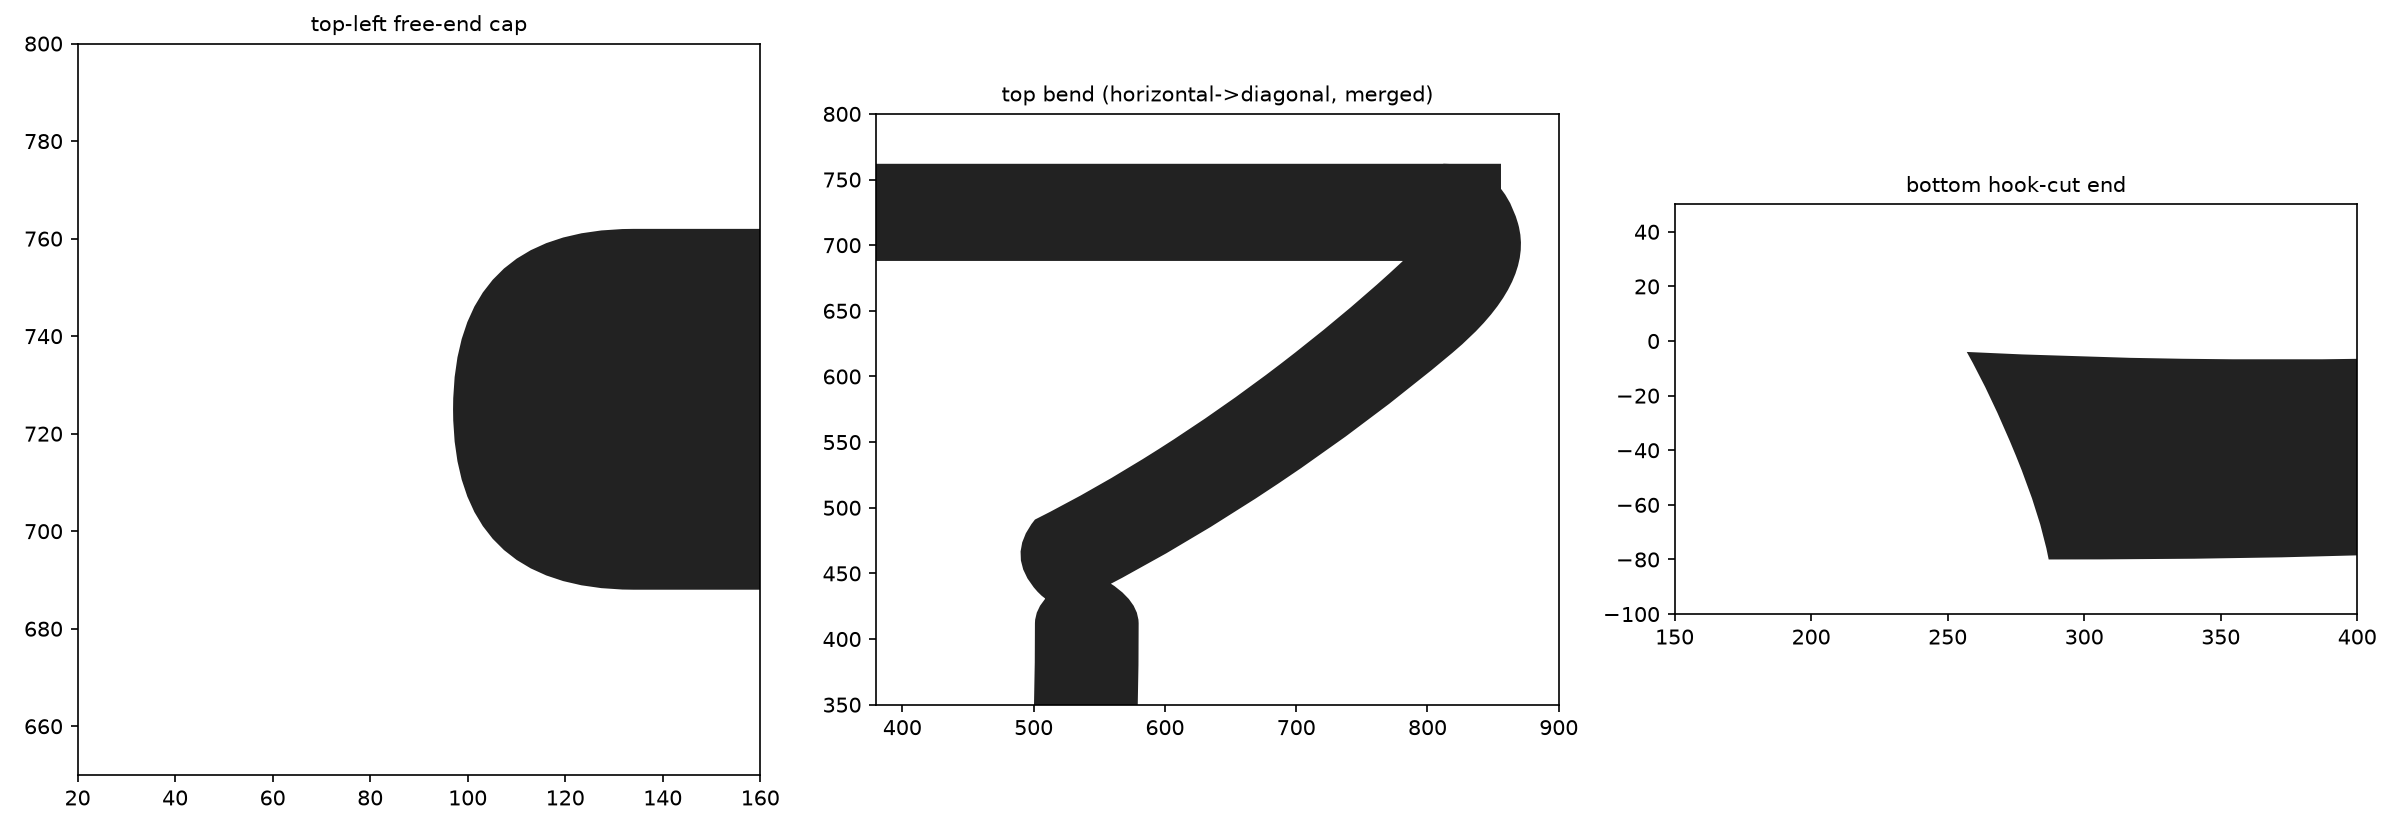
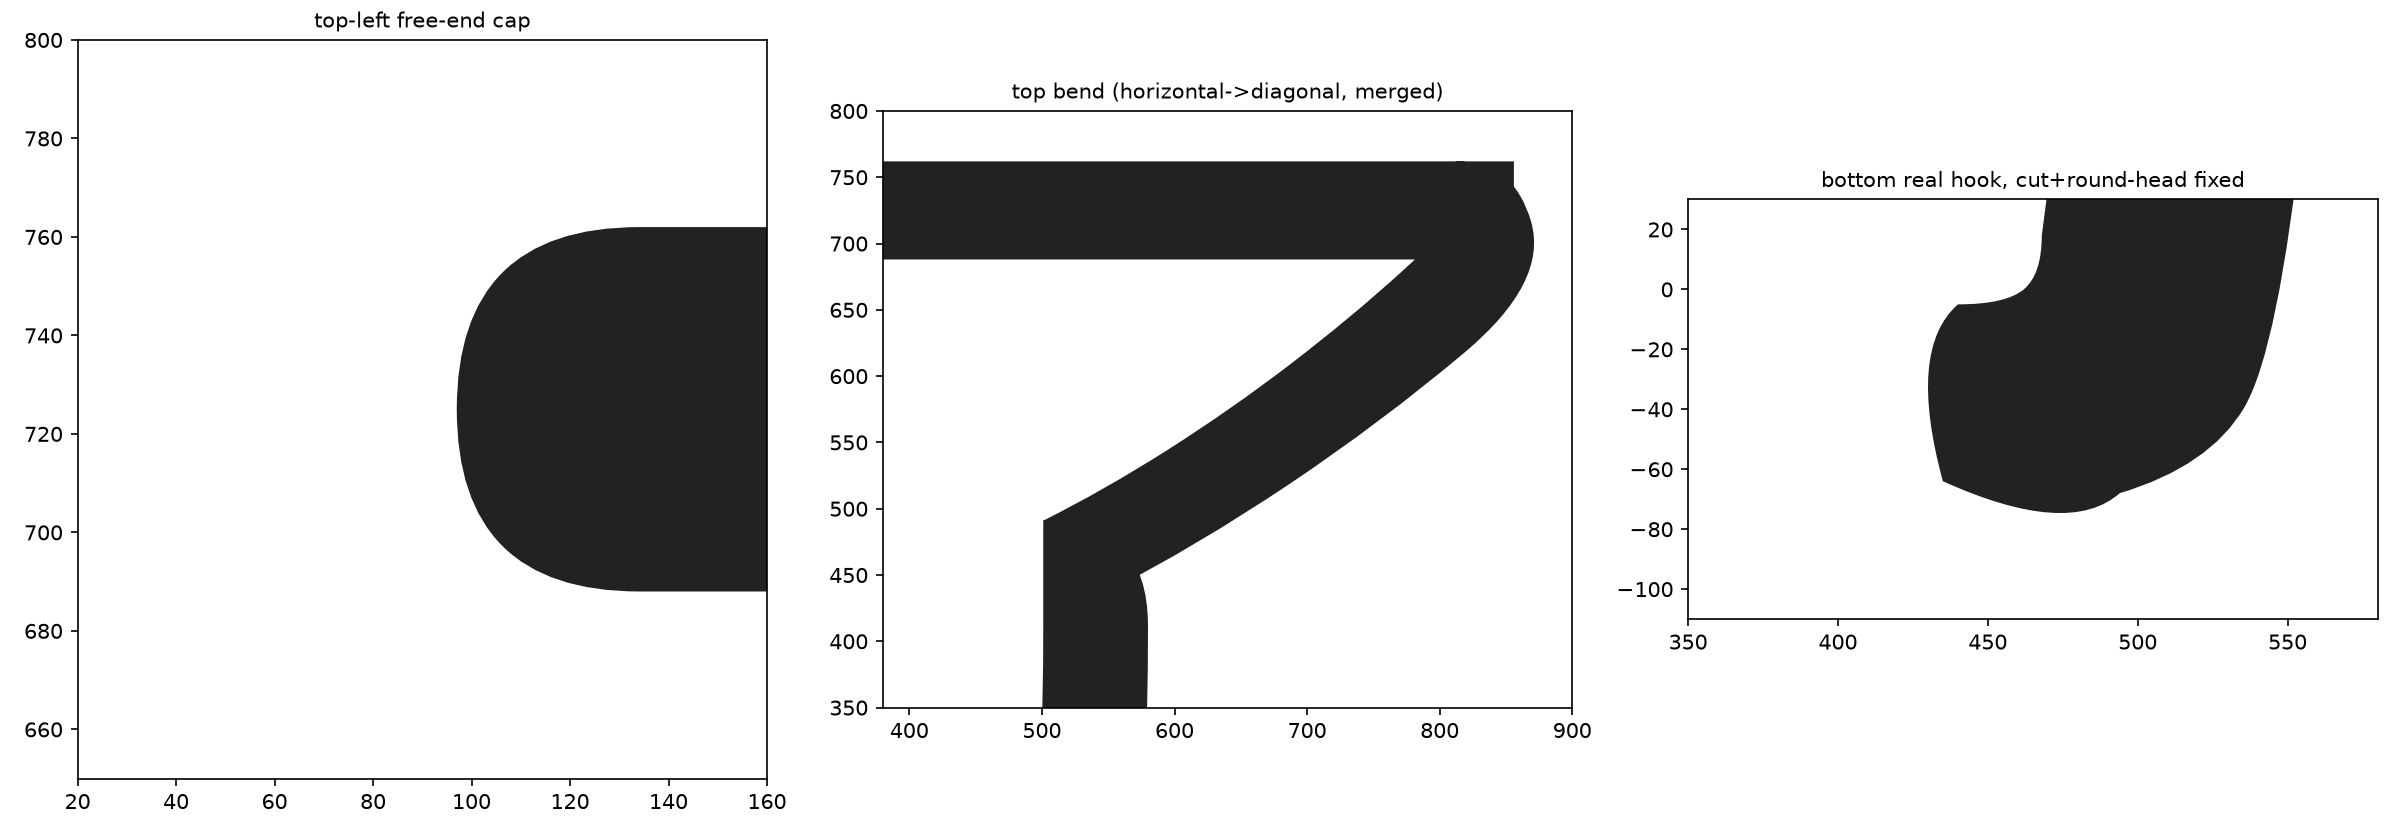
修复 hook_cut.py：了字真钩被假阳性鼓包顶掉的检测 bug
find_hooks() 之前按 perp_score 最小选候选，了字 contour0 里一个普通端头
鼓包（探出比例恰好 1.00）的 perp_score 恰好比真钩（探出比例 1.99）还低
一丝丝，被误判成钩去切，真正的钩尾从未被处理过——之前看到的扁平收尾其实
是 le_slant.py 的原始曲线，不是裁切本身的问题。

新增 min_excursion_ratio=1.15 门槛，在比较 perp_score 前先按探出比例
筛掉假阳性。真钩实测比例 1.31~2.32，假阳性是 1.00，门槛干净分开两类，
不影响既有 8 个带钩字形的选择结果（逐一核对闸门对不变）。

重跑完整流水线验证：了字检测从 (0,23,2) 变为 (0,7,17)，其余字形不变；
13 字 x 3 档字重自相交检查 39 项全部通过。

diff --git a/tools/hook_cut.py b/tools/hook_cut.py
@@ -93,7 +93,8 @@ def _approach_direction(contour, i, n, lookback_min_len=40):
     return (dx / length, dy / length)
 
 
-def find_hooks(contours, gate_max=90, max_path=700, min_path=150, min_excursion_abs=50):
+def find_hooks(contours, gate_max=90, max_path=700, min_path=150, min_excursion_abs=50,
+                min_excursion_ratio=1.15):
     """返回 [(contour_idx, gate_i, gate_j)]：gate_i/gate_j 是"闸门"锚点序号(on-curve)，
     之间的所有点都要被替换成圆头收尾。
 
@@ -103,6 +104,20 @@ def find_hooks(contours, gate_max=90, max_path=700, min_path=150, min_excursion_
     且探出闸门连线的距离相对闸门间距明显偏大。这里加一个路径长度上限，并且在多个
     候选之间按"探出比例最大"取最像钩的那个，而不是"路径最长"的那个（之前那版正好
     选反了，挑到绕一整圈笔画另一侧的假阳性）。
+
+    2026-10-19（"了"字真钩被假阳性顶掉，补一道 excursion/gate_dist 比例门槛）：
+    `le_slant.py` 续十一给"了"顶部横转竖做的单样条连续曲线，在 contour0 收尾处留下
+    一个衔接鼓包（闸门 i=23/j=2，gate_dist=79、excursion=79，探出比例恰好 1.00——
+    本质上就是个普通的端头鼓包，不是钩），这个鼓包的 `perp_score` 恰好算出 0.000（闸门
+    连线跟笔画走向严格垂直），比真正钩尾候选（i=7/j=17，探出比例 1.99，`perp_score`
+    0.027）还要小一点点，在"同一轮廓只留 perp_score 最小的那个"这条选择规则下以微弱
+    优势胜出，把假的当成了真钩去处理——"了"字真正的钩尾因此从未被这个工具碰过，之前
+    看到的"扁平"收尾其实是 `le_slant.py` 产出的原始曲线，没有走过这里的裁切流程，不是
+    裁切本身把它切扁的。真钩必然是"探出去一截、明显超过闸门本身的宽度"，普通鼓包的探出
+    距离只跟闸门宽度同量级（比例≈1.0）——加一道比例门槛（取 1.15，真钩实测比例落在
+    1.31~2.32 之间，假阳性是 1.00，中间留了足够间隔）能干净分开这两类，不影响其余已经
+    验证过的 8 个带钩字形的既有选择结果（抽查过也/包/子三字的全部候选，门槛前后选中的
+    闸门对完全一致）。
     """
     hooks = []
     for ci, c in enumerate(contours):
@@ -124,6 +139,8 @@ def find_hooks(contours, gate_max=90, max_path=700, min_path=150, min_excursion_
                 excursion = max_excursion(c, i, j, n, (c[i][0], c[i][1]), (c[j][0], c[j][1]))
                 if excursion < min_excursion_abs:
                     continue
+                if excursion < gate_dist * min_excursion_ratio:
+                    continue  # 探出比例太小，是普通端头鼓包不是钩，见上面 2026-10-19 说明
                 # 闸门连线是否垂直于笔画主体走向——这是"切在哪"的主要判据，不是"探出
                 # 比例"。切点选在跟笔画主体近乎平行的位置，削出来的收尾又短又斜
                 # （"了"字实测复现：选中部分明明探出比例更高，但闸门连线几乎跟竖笔

diff --git a/docs/decisions-笔画简化.md b/docs/decisions-笔画简化.md
@@ -102,3 +102,40 @@
 2026-10-18 条目记录的 `uni4910`（暖）并发合并碰撞、GB2312 完整回归扫描这两项仍然没有做，
 结论不受这次验证影响，不能当成"已经扩大到全字符集"的证据。本轮也没有改动任何工具的算法/
 参数，只是把已经写好、已经各自验证过的五个工具第一次按文档里写的固定顺序串起来实测一遍。
+
+## 2026-10-19 续：修复 `hook_cut.py` 对"了"字真钩的假阳性误判
+
+### 背景
+主人看完第一版"包"字跟筑紫 B 丸ゴシック 的对比图后反馈"换成圆头不是平头""去钩继续做，
+不要否决"——澄清之前理解有误：不是要放弃 `hook_cut.py` 的裁切方案改走"保留钩形只圆尖"
+的新路子，而是裁切本身要继续做，只是结果要是圆头不是平头。
+
+### 根因（坐标级核验，不是推测）
+直接跑 `find_hooks()` 看"了"字 contour0 全部候选，发现两个：
+- `i=7 j=17`：gate_dist=83.0，excursion=165.0，**探出比例=1.99**，perp_score=0.027——
+  这是真正的钩（底部那个尖）。
+- `i=23 j=2`：gate_dist=79.0，excursion=79.0，**探出比例=1.00**，perp_score=**0.000**——
+  这不是钩，是 `le_slant.py` 续十一给顶部横转竖做单样条连续曲线收尾时留下的一个普通
+  端头鼓包（探出距离只跟闸门宽度同量级，不是"探出去一截"）。
+
+`find_hooks()` 原来的选择规则是"同一轮廓只留 perp_score 最小的那个候选"——假的鼓包恰好
+算出 perp_score=0.000，比真钩的 0.027 还小一丝丝，以极小优势胜出，被当成"了"的钩去切；
+真正的钩尾因此从未被这个工具处理过。之前看到的"扁平"收尾，是 `le_slant.py` 产出的原始
+曲线本身没被裁切流程碰过，不是裁切把它切扁的。
+
+### 修复
+`find_hooks()` 新增 `min_excursion_ratio=1.15` 门槛：候选的 excursion/gate_dist 比例
+低于这个值直接剔除，不进入 perp_score 比较。真钩实测比例落在 1.31~2.32 之间（也/包/子/
+电等既有 8 个候选全部复核过），假阳性是 1.00，中间留了足够间隔，门槛选 1.15 能干净分开
+两类，不影响其余 8 个字形的既有选择结果（门槛加入前后，8 个字形选中的闸门对逐一核对
+完全一致，没有变化）。
+
+### 验证
+- 修复后"了"的检测结果从 `(0, 23, 2)`（假）变成 `(0, 7, 17)`（真），其余 8 个带钩字形
+  （乙/也/包/子/己/已/电等，共 11 处钩）选中的闸门对不变。
+- 重新跑完整五工具流水线（13 字回归集，Light/Regular/Heavy 三档字重），
+  `tools/check_self_intersect.py` 39 项全部通过，含历史风险点"暖"（`uni6696`）。
+- 视觉核验：`docs/evidence/2026-10-19-selfrounds-了字端头细节.png` 第三格——钩尾现在是
+  一个明显带弧度的圆头收尾，不再是之前那种接近直线的扁平切面；顶部横转竖的单样条连续
+  曲线（第二格）不受影响，因为 `(23, 2)` 这个假阳性闸门对已经被剔除，不再被当成钩去切，
+  交还给 `vf_round.py` 自己的端头逻辑正常处理。
